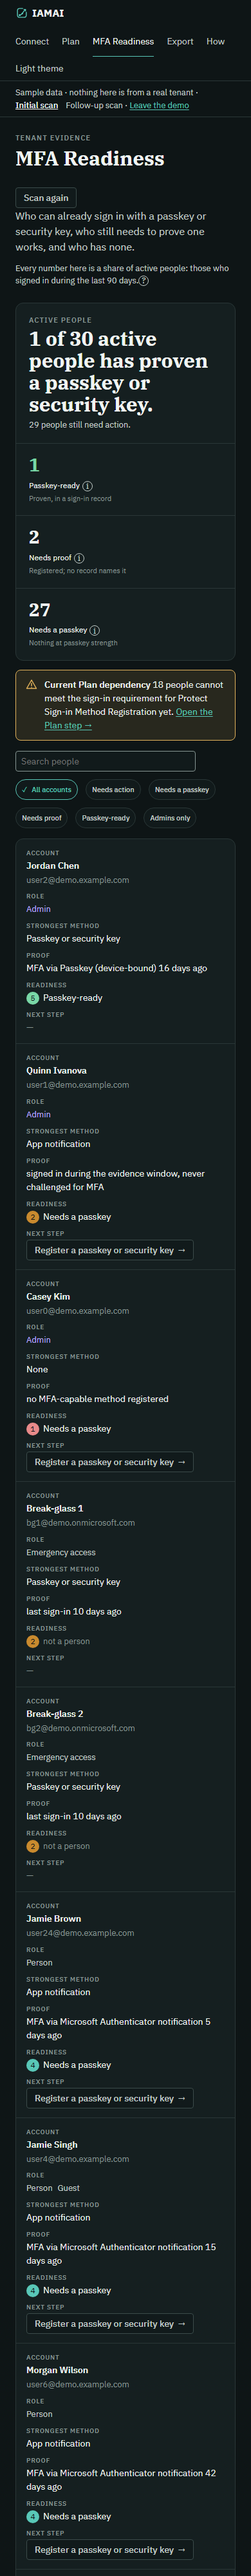
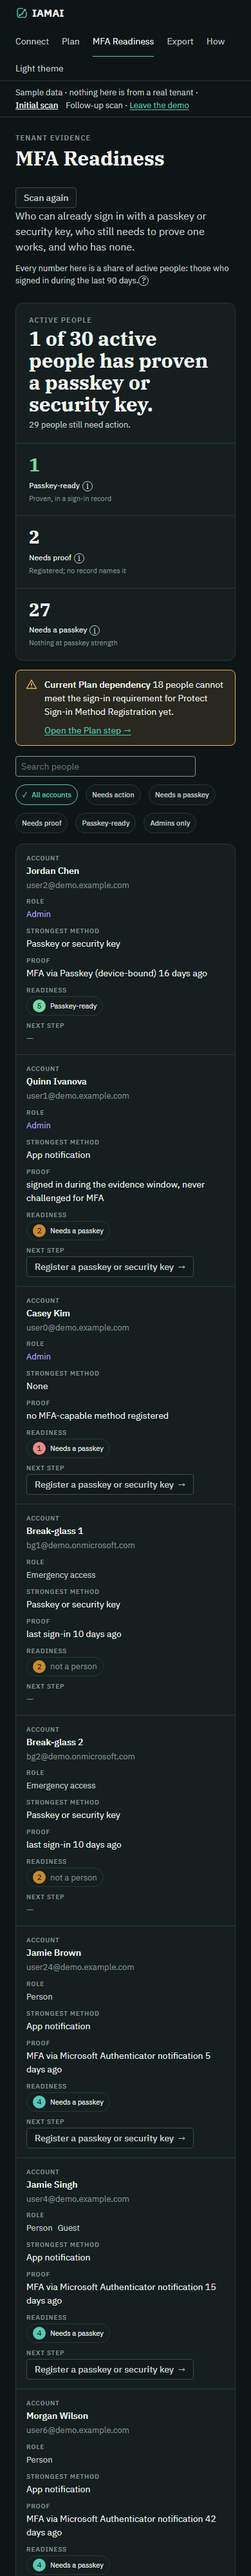
a rung badge and a readiness word sitting loose in a column is not the bounded status object the pack draws, and a Plan link buried in the middle of a callout sentence is not the action it holds apart, so the readiness cell composes the shared `.pill` outline around the rung's own badge and the grou
Nothing inside either object changed. The marker is still the rung's badge with
its number and its accessible name, the word beside it is still the group
derive/mfaReadiness.ts put the row in, and the callout's sentence, its number
and its destination are still derive/stepMfaReadiness.ts's hold read from this
side. The outline is geometry: `.pill` carries no state colour, and the state is
said by the word, which is what keeps a readiness group and a Plan lifecycle out
of one enum.

The callout arrangement is MFA Readiness's and not the shared `.callout` role's:
the Plan's attention panel draws no action of its own, and one pack is not
evidence of sharing. Production leads a notice with the tone icon the pack has
no equivalent for, so the division is inside the body — the body takes the rest
of the row and divides it, the icon stays beside the whole thing. The space
between the two parts stays in the DOM, so the notice still reads as one
sentence to anything reading its text rather than its layout.

Both are regressions in surfaces/readinessAnatomy.test.ts, two-sided as the rest
of that file is: each fails on the source as it stood and reads the approved
pack for the shape it is asserting. Rendered evidence regenerated at
1280/768/390 in both themes.

diff --git a/src/ui/surfaces/readinessAnatomy.test.ts b/src/ui/surfaces/readinessAnatomy.test.ts
@@ -106,6 +106,35 @@ test('one callout under the summary, in the pack’s place, and it is not drawn 
   assert.match(SURFACE, /h\?\.ids && h\.ids\.length > 0/, 'an unknown reach must not become a number in the callout')
 })
 
+test('the callout divides what is true from the way to the Plan step, and stacks them at the pack’s narrow width', () => {
+  const pack = read(PACK)
+  // The pack: a space-between row holding an explanation block and an action,
+  // which becomes a column at 620.
+  assert.match(pack, /\.callout\s*\{[^}]*justify-content:space-between/, 'the pack no longer holds its action apart from its explanation')
+  assert.match(pack, /<div class="callout">\s*<div>[\s\S]{0,300}<\/div>\s*<a href="[^"]*">[^<]*<\/a>\s*<\/div>/, 'the pack no longer draws an explanation block beside an action')
+  const narrow = pack.match(/@media\(max-width:620px\)\{[\s\S]*?\n\}/)?.[0] ?? ''
+  assert.match(narrow, /\.callout\{align-items:flex-start;flex-direction:column\}/, 'the pack no longer stacks the callout at 620')
+
+  // Production: BOTH branches of the one callout name their two parts, so the
+  // Plan link is the action of the notice and not a word inside its sentence.
+  const parts = [...SURFACE.matchAll(/<Callout[\s\S]{0,900}?<\/Callout>/g)].map((m) => m[0])
+  assert.equal(parts.length, 2, 'the two branches of the one callout')
+  for (const part of parts) {
+    assert.match(part, /<span className="callout-explain">/, 'a callout branch states its sentence outside an explanation block')
+    assert.match(part, /<a className="callout-action" href=\{`#\/plan\//, 'a callout branch does not hold its Plan step as the action')
+  }
+  // And the layout is the pack's: the body divides, and the division becomes a
+  // stack at the pack's own breakpoint.
+  const body = CSS.match(/\.surface\.readiness \.callout \.callout-body \{[^}]*\}/)?.[0] ?? ''
+  assert.match(body, /justify-content: space-between/, 'the callout does not hold its action apart from its explanation')
+  assert.match(body, /align-items: center/, 'the action does not sit with the explanation it belongs to')
+  const at620 = CSS.match(/@media \(max-width: 620px\) \{[\s\S]*?\n\}/)?.[0] ?? ''
+  assert.match(at620, /\.surface\.readiness \.callout \.callout-body \{[^}]*flex-direction: column/, 'the callout never stacks its action under its explanation')
+  // The shared attention panel keeps its own job: the tone, the tint and the
+  // icon. It must not grow one surface's two-part arrangement (task 031).
+  assert.doesNotMatch(CSS.match(/\n\.callout \{[^}]*\}/)?.[0] ?? '', /space-between/, 'the readiness arrangement became the shared callout role')
+})
+
 test('the toolbar is a search and the filters as pills, and every pill is a real control over the one Show key', () => {
   const pack = read(PACK)
   assert.match(pack, /\.toolbar\s*\{display:flex[^}]*flex-wrap:wrap/, 'the pack no longer wraps its toolbar')
@@ -152,6 +181,37 @@ test('the person table has the pack’s six zones, in the pack’s order, on bot
   const t = readinessTable(fixture('demo').snapshot, fixture('demo').mapping)
   assert.deepEqual(t.header, COLUMNS)
   for (const row of t.rows) assert.equal(row.length, COLUMNS.length)
+})
+
+test('the readiness cell is one bounded status object, and the rung and the word are what is inside it', () => {
+  const pack = read(PACK)
+  // The pack: the state is a marker and a word inside ONE full-round outline,
+  // never a loose mark beside loose text.
+  const status = pack.match(/\.status\s*\{[^}]*\}/)?.[0] ?? ''
+  assert.match(status, /display:inline-flex/, 'the pack no longer bounds its state as one object')
+  assert.match(status, /border:1px solid/, 'the pack’s state object lost its outline')
+  assert.match(status, /border-radius:999px/, 'the pack’s state object is no longer a full round')
+  assert.match(pack, /<span class="status [a-z]+"><span class="dot"><\/span>[A-Za-z][^<]*<\/span>/, 'the pack no longer puts a marker and a word inside the outline')
+
+  // Production: the same bounded object, composing the shared `.pill` geometry
+  // rather than declaring a second one, with the rung's own badge as the marker
+  // and the group's word beside it. Neither is removed and neither is hidden:
+  // the word is what says the state and the badge still carries the rung.
+  const cell = SURFACE.match(/<span className="readiness-status pill">[\s\S]{0,600}/)?.[0] ?? ''
+  assert.ok(cell, 'the readiness cell is not one bounded status object')
+  assert.match(cell, /<RungBadge rung=\{r\.rung\} \/>/, 'the rung’s badge left the status object')
+  assert.match(cell, /<span className="group-word">\{readinessWord\(r\)\}<\/span>/, 'the readiness word left the status object')
+  assert.match(cell, /<span className="not-person">/, 'an account the campaign does not count lost its word')
+  const role = CSS.match(/\n\.pill \{[^}]*\}/)?.[0] ?? ''
+  assert.match(role, /border: 1px solid/, 'the shared pill lost the outline the cell composes')
+  assert.match(role, /border-radius: 999px/, 'the shared pill is no longer a full round')
+  // The outline is geometry. The state stays in the word and in the rung's own
+  // badge — the readiness cell's own rule chooses no colour of its own, which
+  // is what keeps a readiness group and a Plan lifecycle out of one enum.
+  const own = CSS.match(/\.surface\.readiness td \.readiness-status \{[^}]*\}/)?.[0] ?? ''
+  assert.ok(own, 'the readiness status object has no rule')
+  assert.doesNotMatch(own, /background|border-color|(?<!vertical-)color:/, 'the readiness status outline chose a state colour')
+  assert.doesNotMatch(CSS, /\.readiness-status \{[^}]*display: none|\.group-word \{[^}]*display: none/, 'the word inside the status object was hidden')
 })
 
 test('the table stays an accessible table through the stacked breakpoint, and its labels are DOM', () => {

diff --git a/src/ui/surfaces/MfaReadiness.tsx b/src/ui/surfaces/MfaReadiness.tsx
@@ -370,20 +370,30 @@ function ReadinessPage({ snapshot, context, dependency }: { snapshot: TenantSnap
     {
       key: 'readiness',
       header: T.columns[4],
-      minWidth: '11rem',
+      minWidth: '12rem',
       // Passkey-ready first, then the people with the most to do: the group is
       // the page's order and the rung breaks the tie inside it.
       sortValue: (r) => (r.kind !== 'person' ? -1 : !r.active ? 0 : r.rung ?? 0),
       csv: (r) => readinessWord(r),
+      // The pack draws this cell as ONE bounded status object — a marker and a
+      // word inside a full-round outline — and production drew a loose badge
+      // beside loose text, so the column read as two things rather than one
+      // state. The outline is the shared `.pill` role (task 031), which is
+      // geometry and never a state colour; what is inside it is unchanged, and
+      // that is the point: the marker is still the rung's own badge, carrying
+      // the rung's number and its accessible name, and the word beside it is
+      // still the group derive/mfaReadiness.ts put the row in. The word is what
+      // says the state — the pill bounds it and the badge colours the rung, and
+      // neither is ever the only signal.
       render: (r) => (
-        <>
+        <span className="readiness-status pill">
           <RungBadge rung={r.rung} />
           {r.group !== null ? (
             <span className="group-word">{readinessWord(r)}</span>
           ) : (
             <span className="not-person">{r.kind !== 'person' ? T.notAPerson : notActiveWord()}</span>
           )}
-        </>
+        </span>
       ),
     },
     {
@@ -499,17 +509,37 @@ function ReadinessPage({ snapshot, context, dependency }: { snapshot: TenantSnap
           relationship really exists: the step this page was opened from, or the
           first step on the plan a person's authentication method is holding.
           The pack's shape, never its sample sentence — nothing is drawn here to
-          fill the panel. */}
+          fill the panel.
+
+          The pack divides it: what is true on the left, the way to the Plan
+          step held apart on the right, and the two stacked once the notice is
+          too narrow to hold both. So each branch names its own two parts —
+          `.callout-explain` and `.callout-action` — and the readiness rules in
+          app.css lay them out. The words, the number and the destination are
+          unchanged; only the relationship between them is now drawn.
+
+          The space between the two parts stays in the DOM, so the notice reads
+          as the one sentence it always did to anything reading its text rather
+          than its layout. A whitespace-only node is not a flex item, so it
+          draws nothing. */}
       {context ? (
         <Callout kind="info">
-          {context.ids === null ? fillText(T.planContext.unknown, { step: context.title }) : fillText(T.planContext.filtered, { n: context.ids.length, step: context.title })}{' '}
-          <a href={`#/plan/${encodeURIComponent(context.stepId)}`}>{T.planContext.back}</a>
+          <span className="callout-explain">
+            {context.ids === null ? fillText(T.planContext.unknown, { step: context.title }) : fillText(T.planContext.filtered, { n: context.ids.length, step: context.title })}
+          </span>{' '}
+          <a className="callout-action" href={`#/plan/${encodeURIComponent(context.stepId)}`}>
+            {T.planContext.back}
+          </a>
         </Callout>
       ) : (
         dependency && (
-          <Callout kind="warning" title={T.planContext.dependencyTitle}>
-            {fillText(T.planContext.dependency, { n: dependency.n, step: dependency.title })}{' '}
-            <a href={`#/plan/${encodeURIComponent(dependency.stepId)}`}>{T.planContext.dependencyLink}</a>
+          <Callout kind="warning">
+            <span className="callout-explain">
+              <strong>{T.planContext.dependencyTitle}</strong> {fillText(T.planContext.dependency, { n: dependency.n, step: dependency.title })}
+            </span>{' '}
+            <a className="callout-action" href={`#/plan/${encodeURIComponent(dependency.stepId)}`}>
+              {T.planContext.dependencyLink}
+            </a>
           </Callout>
         )
       )}

diff --git a/src/ui/app.css b/src/ui/app.css
@@ -2573,8 +2573,10 @@ td .rung-badge {
   height: 20px;
   line-height: 20px;
 }
+/* The word for an account the campaign does not count, inside the readiness
+   cell's status outline. The gap beside the badge is the pill's, so this sets
+   no margin of its own. */
 td .not-person {
-  margin-left: 6px;
   font-size: var(--t-2);
   color: var(--ink-3);
 }
@@ -2668,6 +2670,28 @@ td .not-person {
   color: var(--rung-5);
 }
 
+/* The callout under the summary. The shared `.callout` role owns the panel —
+   the tone border, the tint and the icon (task 031) — and the pack owns what
+   the panel is arranged as: the explanation on one side, the way to the Plan
+   step held apart on the other, and the two stacked at the narrow width below.
+   Production leads the notice with the tone icon, which the pack has no
+   equivalent for, so the division is inside the body: the body takes the rest
+   of the row and divides it, and the icon stays beside the whole thing.
+
+   This belongs to MFA Readiness and not to the shared role: the Plan's
+   attention panel draws no action of its own, and one pack is not evidence of
+   sharing (src/ui/primitives.test.ts). */
+.surface.readiness .callout .callout-body {
+  flex: 1;
+  display: flex;
+  justify-content: space-between;
+  align-items: center;
+  gap: 16px;
+}
+.surface.readiness .callout .callout-action {
+  white-space: nowrap;
+}
+
 /* The pack's toolbar: the search, then the filters as pills. `.pill` is the
    shared geometry (task 031); the pressed treatment is the toolbar rule above,
    which is a check mark as well as the accent. */
@@ -2719,14 +2743,17 @@ td .not-person {
   font-size: var(--t-2);
   color: var(--ink-3);
 }
-/* The group's word beside the rung badge in a row. */
-.surface.readiness td .group-word {
-  margin-left: 6px;
+/* The Readiness cell: the pack's bounded status object, which production had
+   left as a badge and some text sitting loose in the column. The outline and
+   the spacing are the shared `.pill` role (task 031) — the same geometry the
+   Plan's state badge takes, and no colour of its own — so what is inside it is
+   the only thing that says the state: the rung's own badge as the marker, and
+   the group's word beside it. Production's word is longer than the pack's
+   sample, so the column is given the width the pair needs rather than the word
+   breaking across two lines inside the outline. */
+.surface.readiness td .readiness-status {
+  vertical-align: middle;
 }
-/* The Readiness cell: the rung's badge and the group's word on one line. The
-   pack draws the state as a pill, which does not break; production's word is
-   longer and carries the rung beside it, so the column is given the width the
-   pair needs rather than the word being broken across two lines. */
 .surface.readiness td .group-word,
 .surface.readiness td .not-person {
   white-space: nowrap;
@@ -2950,6 +2977,14 @@ td .not-person {
   .readiness-summary .summary-stat {
     border-left: 0;
     border-top: 1px solid var(--rule);
+  }
+  /* The pack's `.callout{align-items:flex-start;flex-direction:column}`: too
+     narrow to hold the sentence and the way out side by side, so the action
+     goes under the explanation rather than either of them being squeezed. */
+  .surface.readiness .callout .callout-body {
+    flex-direction: column;
+    align-items: flex-start;
+    gap: 8px;
   }
   .surface.readiness .footer-note {
     flex-direction: column;
